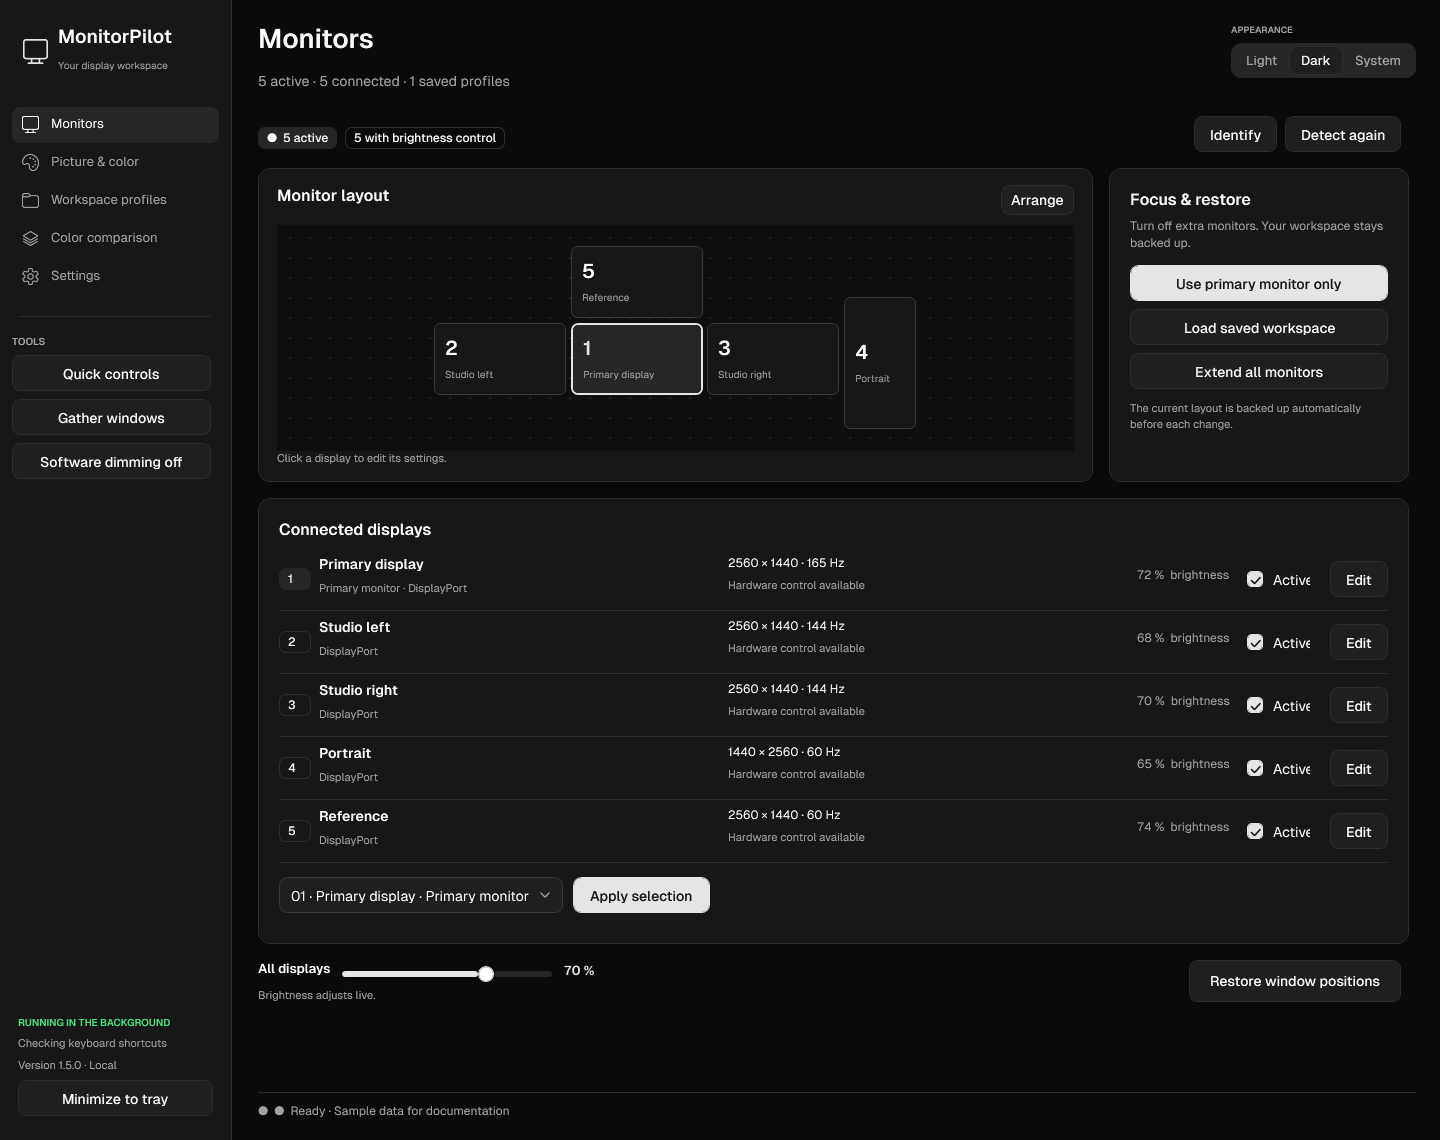
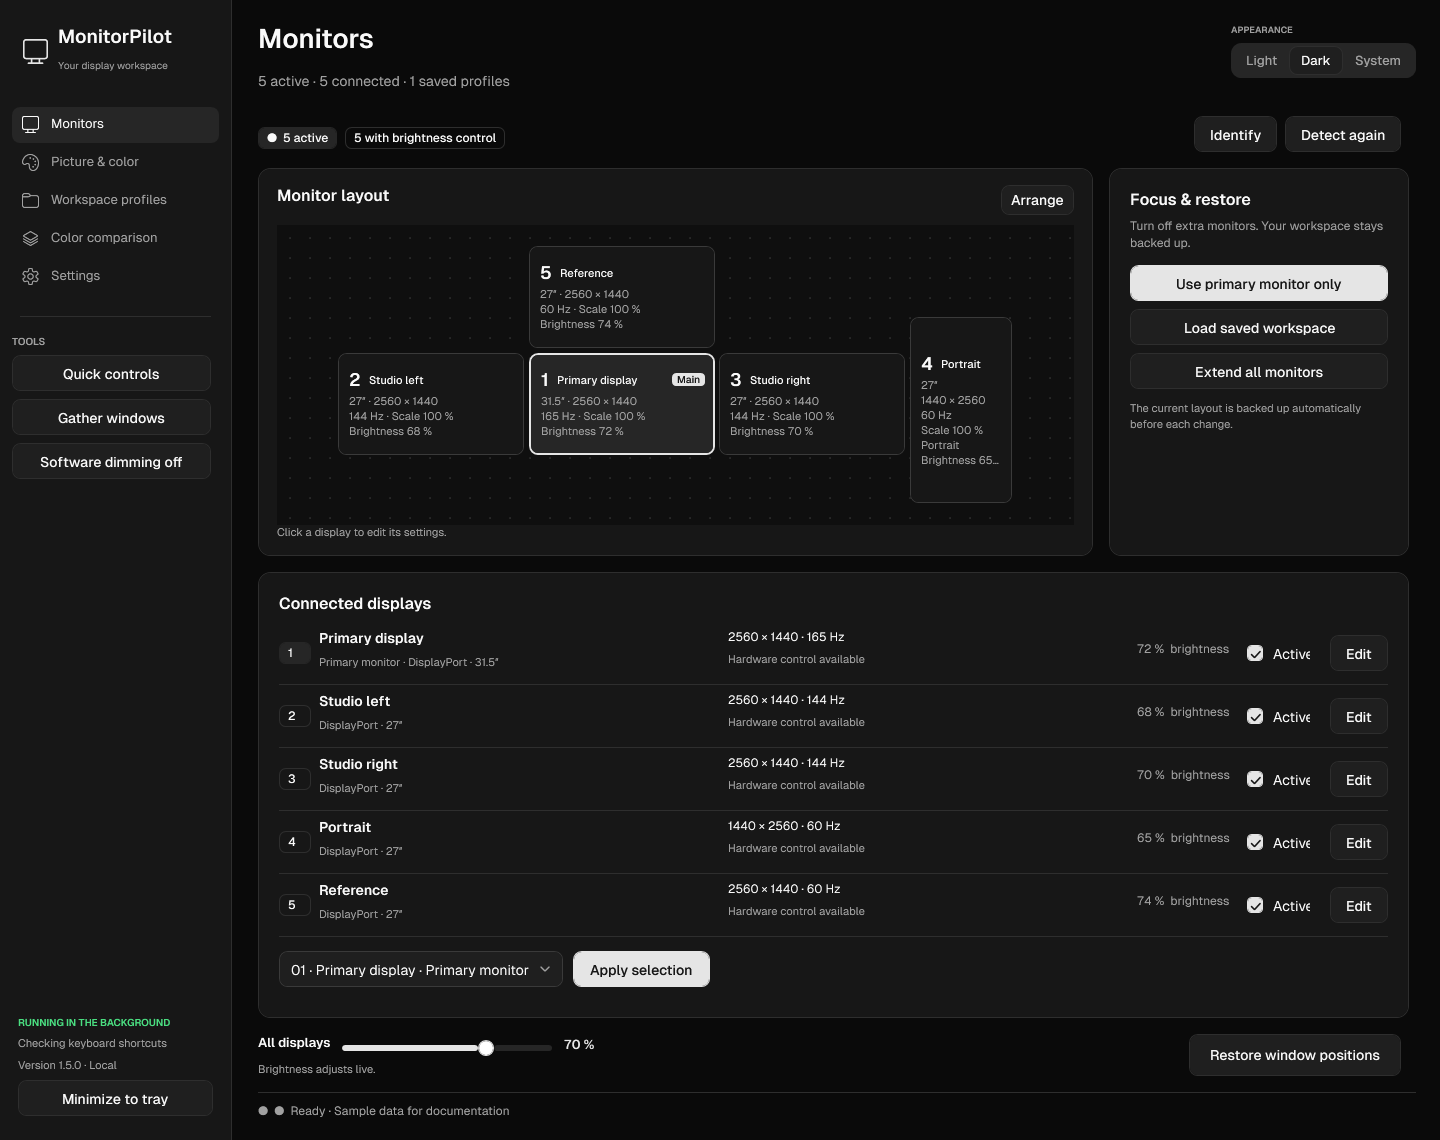
Monitorkacheln mit Groesse, Aufloesung, Hz, Skalierung und Helligkeit
- Diagonale aus den EDID-Daten, dazu Aufloesung, Bildwiederholrate,
  Windows-Skalierung, Hochformat, HDR und Live-Helligkeit je Kachel.
- Schmale Kacheln zeigen einen Wert pro Zeile, Tooltip mit allen Angaben.
- Diagonale auch in der Monitorliste; Doku-Bilder und README aktualisiert.
- Neuer Selbsttest fuer das EDID-Format (57 gesamt).

diff --git a/src/MonitorPilot/Dashboard.cs b/src/MonitorPilot/Dashboard.cs
@@ -73,7 +73,7 @@ internal sealed partial class MainWindow
         var toolbar=new DockPanel{Margin=new Thickness(0,0,0,8)};var left=Theme.Row(Theme.Badge("●  "+c.Monitors.Count(m=>m.Active)+L.T(" aktiv"),true),hardwareCount);left.VerticalAlignment=VerticalAlignment.Center;
         var actions=Theme.Row(Theme.Button(L.T("Identifizieren"),()=>c.Overlays.Identify(c.Monitors)),ActionButton(L.T("Neu erkennen"),c.Refresh));DockPanel.SetDock(actions,Dock.Right);toolbar.Children.Add(actions);toolbar.Children.Add(left);content.Children.Add(toolbar);
         var mapHeader=new DockPanel();var arrange=Theme.Button(L.T("Anordnen"),EditLayout);arrange.MinHeight=30;arrange.Padding=new Thickness(10,5,10,5);arrange.Margin=new Thickness(8,0,0,0);DockPanel.SetDock(arrange,Dock.Right);mapHeader.Children.Add(arrange);mapHeader.Children.Add(Theme.Label(L.T("Monitoranordnung"),16,null,true));
-        var canvas=new Canvas{Height=226,ClipToBounds=true,Background=Theme.Map,Margin=new Thickness(0,10,0,0)};canvas.SizeChanged+=(_,_)=>DrawMap(canvas);
+        var canvas=new Canvas{Height=300,ClipToBounds=true,Background=Theme.Map,Margin=new Thickness(0,10,0,0)};canvas.SizeChanged+=(_,_)=>DrawMap(canvas);
         var mapCard=Theme.Panel(Theme.Stack(mapHeader,canvas,Theme.Label(L.T("Klicke auf einen Bildschirm, um seine Werte zu bearbeiten."),11,Theme.Muted)));mapCard.Padding=new Thickness(18,16,18,8);
         var quick=Theme.Stack(Theme.Label(L.T("Fokus & Wiederherstellung"),16,null,true),Theme.Label(L.T("Zusatzmonitore ausschalten. Dein Arbeitsplatz bleibt gesichert."),12,Theme.Muted));
         var focus=ActionButton(c.Monitors.Count(m=>m.Active)==1?L.T("Arbeitsplatz wiederherstellen"):L.T("Nur Hauptmonitor verwenden"),c.Focus,true);focus.Margin=new Thickness(0,6,0,8);quick.Children.Add(focus);
@@ -88,7 +88,7 @@ internal sealed partial class MainWindow
             var row=new Grid{Margin=new Thickness(0,7,0,7)};
             row.ColumnDefinitions.Add(new(){Width=new GridLength(40)});row.ColumnDefinitions.Add(new(){Width=new GridLength(1,GridUnitType.Star)});row.ColumnDefinitions.Add(new(){Width=new GridLength(1,GridUnitType.Star)});row.ColumnDefinitions.Add(new(){Width=new GridLength(110)});row.ColumnDefinitions.Add(new(){Width=new GridLength(75)});row.ColumnDefinitions.Add(new(){Width=GridLength.Auto});
             var number=Theme.Badge(monitor.Number.ToString(),monitor.Primary);row.Children.Add(number);
-            var title=Theme.Stack(Theme.Label(c.Name(monitor),14,null,true),Theme.Label(monitor.Primary?L.T("Hauptmonitor · ")+monitor.Connection:monitor.Connection,11,Theme.Muted));Grid.SetColumn(title,1);row.Children.Add(title);
+            var title=Theme.Stack(Theme.Label(c.Name(monitor),14,null,true),Theme.Label((monitor.Primary?L.T("Hauptmonitor · "):"")+monitor.Connection+(monitor.SizeText.Length>0?" · "+monitor.SizeText:""),11,Theme.Muted));Grid.SetColumn(title,1);row.Children.Add(title);
             var hardwareInfo=Theme.Label(monitor.Hardware.Brightness!=null?L.T("Hardwaresteuerung verfügbar"):monitor.Active?monitor.DdcStatus:L.T("Deaktiviert"),11,Theme.Muted);
             var info=Theme.Stack(Theme.Label(monitor.Summary,12),hardwareInfo);Grid.SetColumn(info,2);row.Children.Add(info);
             var brightness=Theme.Label(monitor.Hardware.Brightness is {} b?L.F($"{b.Percent} %  Helligkeit"):"—",12,Theme.Muted);brightness.VerticalAlignment=VerticalAlignment.Center;Grid.SetColumn(brightness,3);row.Children.Add(brightness);
@@ -109,22 +109,36 @@ internal sealed partial class MainWindow
         double Average()=>Math.Round(c.Monitors.Where(m=>m.Active&&m.Hardware.Brightness!=null).Select(m=>(double)c.ControlPercent(m,MonitorControl.Brightness)!).DefaultIfEmpty(50).Average());
         bool updating=false;var master=new Slider{Minimum=0,Maximum=100,Value=Average(),Width=210,IsEnabled=c.Monitors.Any(m=>m.Active&&m.Hardware.Brightness!=null),IsSnapToTickEnabled=true,TickFrequency=1,SmallChange=1,LargeChange=5,Margin=new Thickness(12,0,12,0)};System.Windows.Automation.AutomationProperties.SetName(master,L.T("Alle Displays"));var numberLabel=Theme.Label($"{master.Value:0} %",13,Theme.Accent,true);numberLabel.VerticalAlignment=VerticalAlignment.Center;master.ValueChanged+=(_,e)=>{numberLabel.Text=$"{e.NewValue:0} %";if(!updating)c.LiveBrightness((int)e.NewValue);};
         var liveControls=Theme.Stack(Theme.Row(Theme.Label(L.T("Alle Displays"),13,null,true),master,numberLabel),Theme.Label(L.T("Helligkeit wird live übernommen."),11,Theme.Muted));var windows=Theme.Button(L.T("Fensterpositionen zurück"),()=>_=c.Run(()=>{c.RestoreWindows();return Task.CompletedTask;}));content.Children.Add(Theme.Columns(liveControls,windows,220));
-        updateHardwareControls=()=>{updating=true;try{foreach(var update in updates)update();master.IsEnabled=c.Monitors.Any(m=>m.Active&&m.Hardware.Brightness!=null);master.Value=Average();}finally{updating=false;}};return content;
+        updateHardwareControls=()=>{updating=true;try{foreach(var update in updates)update();foreach(var m in c.Monitors)if(mapBrightness.TryGetValue(m.Key,out var label))label.Text=MapBrightness(m);master.IsEnabled=c.Monitors.Any(m=>m.Active&&m.Hardware.Brightness!=null);master.Value=Average();}finally{updating=false;}};return content;
     }
+    private readonly Dictionary<string,TextBlock> mapBrightness=new();
+    private string MapBrightness(MonitorDevice m)=>c.ControlPercent(m,MonitorControl.Brightness) is {} percent?L.F($"Helligkeit {percent} %"):L.T("Helligkeit: kein DDC/CI");
     private void DrawMap(Canvas canvas)
     {
-        canvas.Children.Clear();var monitors=c.Monitors.Where(m=>m.Active).ToList();if(monitors.Count==0)return;
+        canvas.Children.Clear();mapBrightness.Clear();var monitors=c.Monitors.Where(m=>m.Active).ToList();if(monitors.Count==0)return;
         double width=Math.Max(100,canvas.ActualWidth),height=canvas.Height;
         for(double x=12;x<width;x+=20)for(double y=12;y<height;y+=20){var dot=new Ellipse{Width=1.5,Height=1.5,Fill=Theme.Border};Canvas.SetLeft(dot,x);Canvas.SetTop(dot,y);canvas.Children.Add(dot);}
         int left=monitors.Min(m=>m.X),top=monitors.Min(m=>m.Y),right=monitors.Max(m=>m.X+m.Width),bottom=monitors.Max(m=>m.Y+m.Height);
         double scale=Math.Min((width-46)/Math.Max(1,right-left),(height-38)/Math.Max(1,bottom-top));double ox=(width-(right-left)*scale)/2,oy=(height-(bottom-top)*scale)/2;
         foreach(var m in monitors)
         {
-            double w=m.Width*scale-5,h=m.Height*scale-5;
-            var number=Theme.Label(m.Number.ToString(),20,m.Primary?Theme.Accent:Theme.Text,true);number.Margin=new Thickness(0,0,0,3);
-            var text=Theme.Label(c.Name(m),10,Theme.Muted);text.TextWrapping=TextWrapping.NoWrap;text.TextTrimming=TextTrimming.CharacterEllipsis;text.Margin=new Thickness(0);
-            var stack=Theme.Stack(number,text);stack.VerticalAlignment=VerticalAlignment.Center;
-            var box=new Border{Width=Math.Max(30,w),Height=Math.Max(30,h),Background=m.Primary?Theme.Soft:Theme.Card,BorderBrush=m.Primary?Theme.Accent:Theme.Track,BorderThickness=new Thickness(m.Primary?2:1),CornerRadius=new CornerRadius(6),Padding=new Thickness(10,4,8,4),Child=stack,Cursor=System.Windows.Input.Cursors.Hand,ToolTip=$"{c.Name(m)} · {m.Summary}"};
+            double w=Math.Max(30,m.Width*scale-5),h=Math.Max(30,m.Height*scale-5);
+            TextBlock Line(string text,double size,Brush color,bool medium=false)=>new(){Text=text,FontSize=size,Foreground=color,FontWeight=medium?FontWeights.Medium:FontWeights.Normal,TextWrapping=TextWrapping.NoWrap,TextTrimming=TextTrimming.CharacterEllipsis,Margin=new Thickness(0,1,0,0)};
+            var header=new DockPanel{Margin=new Thickness(0,0,0,2)};
+            if(m.Primary&&w>=110){var chip=new Border{Background=Theme.Accent,CornerRadius=new CornerRadius(4),Padding=new Thickness(5,0,5,1),VerticalAlignment=VerticalAlignment.Center,Child=new TextBlock{Text=L.T("Haupt"),FontSize=10,FontWeight=FontWeights.Medium,Foreground=Theme.AccentText}};DockPanel.SetDock(chip,Dock.Right);header.Children.Add(chip);}
+            var number=new TextBlock{Text=m.Number.ToString(),FontSize=18,FontWeight=FontWeights.SemiBold,Foreground=Theme.Text,Margin=new Thickness(0,0,8,0),VerticalAlignment=VerticalAlignment.Center};header.Children.Add(number);
+            header.Children.Add(Line(c.Name(m),11,Theme.Text,true));header.Children[^1].SetValue(VerticalAlignmentProperty,VerticalAlignment.Center);
+            var size=string.Join(" · ",new[]{m.SizeText,$"{m.Width} × {m.Height}"}.Where(t=>t.Length>0));
+            var extras=new List<string>{$"{m.Hz:0.##} Hz"};if(m.ScalePercent>0)extras.Add(L.F($"Skalierung {m.ScalePercent} %"));if(m.Portrait)extras.Add(L.T("Hochformat"));if(m.Hdr==true)extras.Add("HDR");
+            var brightness=Line(MapBrightness(m),11,Theme.Muted);mapBrightness[m.Key]=brightness;
+            var facts=w<170?new[]{m.SizeText,$"{m.Width} × {m.Height}"}.Concat(extras).Where(t=>t.Length>0).ToList():new List<string>{size,string.Join(" · ",extras)};
+            var lines=new List<UIElement>{header};lines.AddRange(facts.Select(f=>Line(f,11,Theme.Muted)));lines.Add(brightness);
+            // Lower-priority lines give way when a tile is small; the tooltip always carries everything.
+            int fit=Math.Max(1,Math.Min(lines.Count,1+(int)((h-36)/16.5)));
+            if(fit<lines.Count&&fit>1){lines.RemoveAt(fit-1);lines.Insert(fit-1,brightness);}
+            var stack=new StackPanel{VerticalAlignment=VerticalAlignment.Center};foreach(var line in lines.Take(fit))stack.Children.Add(line);
+            var tooltip=string.Join(Environment.NewLine,new[]{c.Name(m)+(m.Primary?L.T(" · Hauptmonitor"):""),size,string.Join(" · ",extras),m.Connection,MapBrightness(m)}.Where(t=>t.Length>0));
+            var box=new Border{Width=w,Height=h,Background=m.Primary?Theme.Soft:Theme.Card,BorderBrush=m.Primary?Theme.Accent:Theme.Track,BorderThickness=new Thickness(m.Primary?2:1),CornerRadius=new CornerRadius(8),Padding=new Thickness(10,6,8,6),Child=stack,Cursor=System.Windows.Input.Cursors.Hand,ToolTip=tooltip};
             Canvas.SetLeft(box,ox+(m.X-left)*scale+2);Canvas.SetTop(box,oy+(m.Y-top)*scale+2);box.MouseLeftButtonUp+=(_,_)=>{selectedKey=m.Key;Navigate("colors");};canvas.Children.Add(box);
         }
     }

diff --git a/src/MonitorPilot/SelfTests.cs b/src/MonitorPilot/SelfTests.cs
@@ -28,6 +28,7 @@ internal static class SelfTests
         Test("Binary union snapshot survives JSON roundtrip",()=>{var copy=Store.Clone(topology);Check(copy.Modes.SequenceEqual(topology.Modes));Check(DisplayService.Unpack<Native.DisplayMode>(copy.Modes)[2].Signal.PixelRate==578340000);Check(Program.Fingerprint(copy)==Program.Fingerprint(topology));});
         Test("Focus on secondary reanchors source and preserves Hz",()=>{var one=DisplayService.Select(topology,new[]{"b"},"b");var p=DisplayService.Unpack<Native.DisplayPath>(one.Paths)[0];var m=DisplayService.Unpack<Native.DisplayMode>(one.Modes)[p.Source.ModeIndex].Source;Check(m.Position.X==0&&m.Position.Y==0&&m.Width==1920);Check(p.Target.Refresh.Numerator==60000&&p.Target.Rotation==2);});
         Test("Restore never re-applies a reduced focus layout",()=>{Check(AppController.ShouldRestore(5,1,5));Check(!AppController.ShouldRestore(1,1,5));Check(AppController.ShouldRestore(5,5,5));Check(!AppController.ShouldRestore(4,5,5));Check(!AppController.ShouldRestore(3,3,5));});
+        Test("EDID image size gives the panel diagonal",()=>{var edid=new byte[128];edid[66]=0xB9;edid[67]=0x88;edid[68]=0x21;var size=DisplayService.EdidSize(edid);Check(size==(697,392));var m=new MonitorDevice{WidthMm=size.Width,HeightMm=size.Height};Check(Math.Abs(m.DiagonalInches!.Value-31.5)<0.05);edid[66]=edid[67]=edid[68]=0;edid[21]=60;edid[22]=34;Check(DisplayService.EdidSize(edid)==(600,340));Check(DisplayService.EdidSize(new byte[10])==(0,0));});
         Test("Repeated restore names do not grow",()=>{Check(AppController.BaseName("Vor Vor Vor Fokusmodus")=="Fokusmodus");Check(AppController.BaseName("Before Before Focus mode")=="Focus mode");Check(AppController.BaseName("Vor ")=="Vor ");});
         Test("Selecting primary shifts all monitors without changing saved baseline",()=>{var changed=DisplayService.Select(topology,new[]{"a","b"},"b");var m=DisplayService.Unpack<Native.DisplayMode>(changed.Modes);Check(m[0].Source.Position.X==1920&&m[0].Source.Position.Y==-200);Check(DisplayService.Unpack<Native.DisplayMode>(topology.Modes)[0].Source.Position.X==0);});
         Test("Reject zero active monitors",()=>Reject(()=>DisplayService.Select(topology,Array.Empty<string>(),"a")));

diff --git a/src/MonitorPilot/DisplayService.cs b/src/MonitorPilot/DisplayService.cs
@@ -72,7 +72,9 @@ internal sealed class DisplayService
                 m.Handle=h.Handle; m.Primary=(h.Info.Flags & 1)!=0;
                 // CCD source dimensions are pre-rotation; the desktop rectangle is authoritative for maps/overlays.
                 m.X=h.Info.Monitor.Left;m.Y=h.Info.Monitor.Top;m.Width=h.Info.Monitor.Width;m.Height=h.Info.Monitor.Height;
+                if(Native.GetDpiForMonitor(h.Handle,0,out uint dpi,out _)==0&&dpi>0)m.ScalePercent=(int)Math.Round(dpi*100/96.0);
             }
+            (m.WidthMm,m.HeightMm)=PhysicalSize(name.DevicePath);
             var color=new Native.ColorInfo {Header=new() { Type=9,Size=(uint)Marshal.SizeOf<Native.ColorInfo>(),Adapter=p.Target.Adapter,Id=p.Target.Id }};
             if(enabled && Native.GetColorInfo(ref color)==0) { m.Hdr=(color.Flags & 2)!=0; m.Bits=color.Bits; }
             list.Add(m);
@@ -104,6 +106,24 @@ internal sealed class DisplayService
             old[i]=path;
         }
         return new() { Paths=Pack(old),Modes=Pack(modes),Identities=Store.Clone(snapshot.Identities) };
+    }
+    // A device path like DISPLAY#AOC3202#5&...#{guid} maps to HKLM\...\Enum\DISPLAY\AOC3202\5&...; EDID bytes 66-68 hold the image size in mm.
+    internal static (int Width,int Height) PhysicalSize(string devicePath)
+    {
+        try
+        {
+            var parts=devicePath.Split('#');if(parts.Length<3)return (0,0);
+            using var key=Microsoft.Win32.Registry.LocalMachine.OpenSubKey($@"SYSTEM\CurrentControlSet\Enum\DISPLAY\{parts[1]}\{parts[2]}\Device Parameters");
+            return key?.GetValue("EDID") is byte[] edid?EdidSize(edid):(0,0);
+        }
+        catch{return (0,0);}
+    }
+    internal static (int Width,int Height) EdidSize(byte[] edid)
+    {
+        if(edid.Length<128)return (0,0);
+        int w=edid[66]|((edid[68]&0xF0)<<4),h=edid[67]|((edid[68]&0x0F)<<8);
+        if(w>0&&h>0)return (w,h);
+        return edid[21]>0&&edid[22]>0?(edid[21]*10,edid[22]*10):(0,0);
     }
     private static string SourceKey(Native.DisplayPath p)=>$"{p.Source.Adapter.High}:{p.Source.Adapter.Low}:{p.Source.Id}";
     public static TopologySnapshot Select(TopologySnapshot snapshot,IEnumerable<string> selected,string primary)

diff --git a/src/MonitorPilot/DemoImages.cs b/src/MonitorPilot/DemoImages.cs
@@ -27,7 +27,7 @@ internal static class DemoImages
             var monitors=samples.Select((s,i)=>new MonitorDevice
             {
                 Key="demo-display-"+i,DeviceName="demo-device-"+i,AdapterKey="demo-gpu",Name=s.Item1,Number=i+1,Active=true,Primary=i==0,
-                X=s.Item2,Y=s.Item3,Width=s.Item4,Height=s.Item5,Hz=s.Item6,Rotation=i==3?2u:1u,Connection="DisplayPort",Bits=8,Hdr=false,DdcStatus="DDC/CI verbunden · {0} Regler",DdcControlCount=5,
+                X=s.Item2,Y=s.Item3,Width=s.Item4,Height=s.Item5,Hz=s.Item6,Rotation=i==3?2u:1u,Connection="DisplayPort",WidthMm=i==0?697:597,HeightMm=i==0?392:336,ScalePercent=100,Bits=8,Hdr=false,DdcStatus="DDC/CI verbunden · {0} Regler",DdcControlCount=5,
                 Hardware=new(){Brightness=Value((uint)s.Item7),Contrast=Value(70),Red=Value(50),Green=Value(50),Blue=Value(50),Temperature=3,TemperatureMask=36}
             }).ToList();
             foreach(var m in monitors)DisplayService.ModesFor(m.DeviceName,()=>new(){new(){Width=(uint)m.Width,Height=(uint)m.Height,Frequency=(uint)m.Hz},new(){Width=(uint)m.Width,Height=(uint)m.Height,Frequency=60}});

diff --git a/src/MonitorPilot/Models.cs b/src/MonitorPilot/Models.cs
@@ -25,6 +25,12 @@ public sealed class MonitorDevice
     public bool? Hdr { get; set; }
     public uint Bits { get; set; }
     public string Connection { get; set; } = "";
+    public int WidthMm { get; set; }
+    public int HeightMm { get; set; }
+    public int ScalePercent { get; set; }
+    [System.Text.Json.Serialization.JsonIgnore] public double? DiagonalInches => WidthMm>0&&HeightMm>0 ? Math.Sqrt(WidthMm*(double)WidthMm+HeightMm*(double)HeightMm)/25.4 : null;
+    [System.Text.Json.Serialization.JsonIgnore] public bool Portrait => Rotation is 2 or 4;
+    [System.Text.Json.Serialization.JsonIgnore] public string SizeText => DiagonalInches is {} inches ? L.Format("{0:0.#}″",inches) : "";
     public HardwareState Hardware { get; set; } = new();
     private string ddcStatus="Noch nicht geprüft";
     public int DdcControlCount {get;set;}

diff --git a/src/MonitorPilot/Native.cs b/src/MonitorPilot/Native.cs
@@ -94,6 +94,7 @@ internal static class Native
     [DllImport("user32.dll")] public static extern bool SetForegroundWindow(IntPtr hwnd);
     [DllImport("user32.dll")] public static extern bool ShowWindow(IntPtr hwnd, int cmd);
     [DllImport("user32.dll")] public static extern IntPtr MonitorFromWindow(IntPtr hwnd, uint flags);
+    [DllImport("shcore.dll")] public static extern int GetDpiForMonitor(IntPtr monitor, int type, out uint dpiX, out uint dpiY);
     [DllImport("user32.dll", SetLastError=true)] public static extern bool RegisterHotKey(IntPtr hwnd, int id, uint mods, uint key);
     [DllImport("user32.dll")] public static extern bool UnregisterHotKey(IntPtr hwnd, int id);
     [DllImport("user32.dll")] public static extern IntPtr SendMessage(IntPtr hwnd, uint message, IntPtr wParam, IntPtr lParam);

diff --git a/README.md b/README.md
@@ -48,6 +48,7 @@ Target: Windows 10/11 **x64**. Windows 11 with five physical monitors is the tes
 | **Focus mode** | Save the workspace, optionally collect open windows, and deactivate the extra displays in Windows. |
 | **Workspace restore** | Restore display configuration, still-open windows, readable monitor controls, and software dimming. |
 | **Display configuration** | Active displays, main/focus display, desktop positions, resolution, refresh rate, and rotation. |
+| **Monitor map** | Every display tile shows its diagonal (from EDID), resolution, refresh rate, Windows scaling, orientation, HDR, and live brightness. |
 | **Return protection** | An independent process restores the previous layout and open-window positions if a display change is not confirmed within about 30 seconds. |
 | **Picture comparison** | Shared grayscale, color patches, and full-color test images, plus shortcuts to Windows color tools. |
 | **Software dimming** | A live, click-through black overlay per display, from 0 to 80%; useful when hardware brightness is unavailable. |

diff --git a/CHANGELOG.md b/CHANGELOG.md
@@ -6,7 +6,8 @@
 - The saved workspace is now only replaced by a layout with at least as many displays, or when the old one is no longer connectable. Restore picks the first backup that brings displays back; without one it extends all connected displays.
 - The focus backup is cleared once the layout is back, even if some DDC/CI values cannot be written. Snapshot names no longer grow with repeated restores.
 - New look based on the shadcn/ui design system: neutral light/dark tokens, Geist font, outline/default buttons, select, checkbox, slider, tabs, badges and tooltips.
-- 56 self-tests, including restore target selection.
+- Monitor map tiles show the panel diagonal (read from EDID), resolution, refresh rate, Windows scaling, orientation, HDR and live brightness; narrow tiles list one fact per line. The monitor list shows the diagonal too.
+- 57 self-tests, including restore target selection and EDID size parsing.
 
 ## 1.4.0 — 2026-10-11
 
